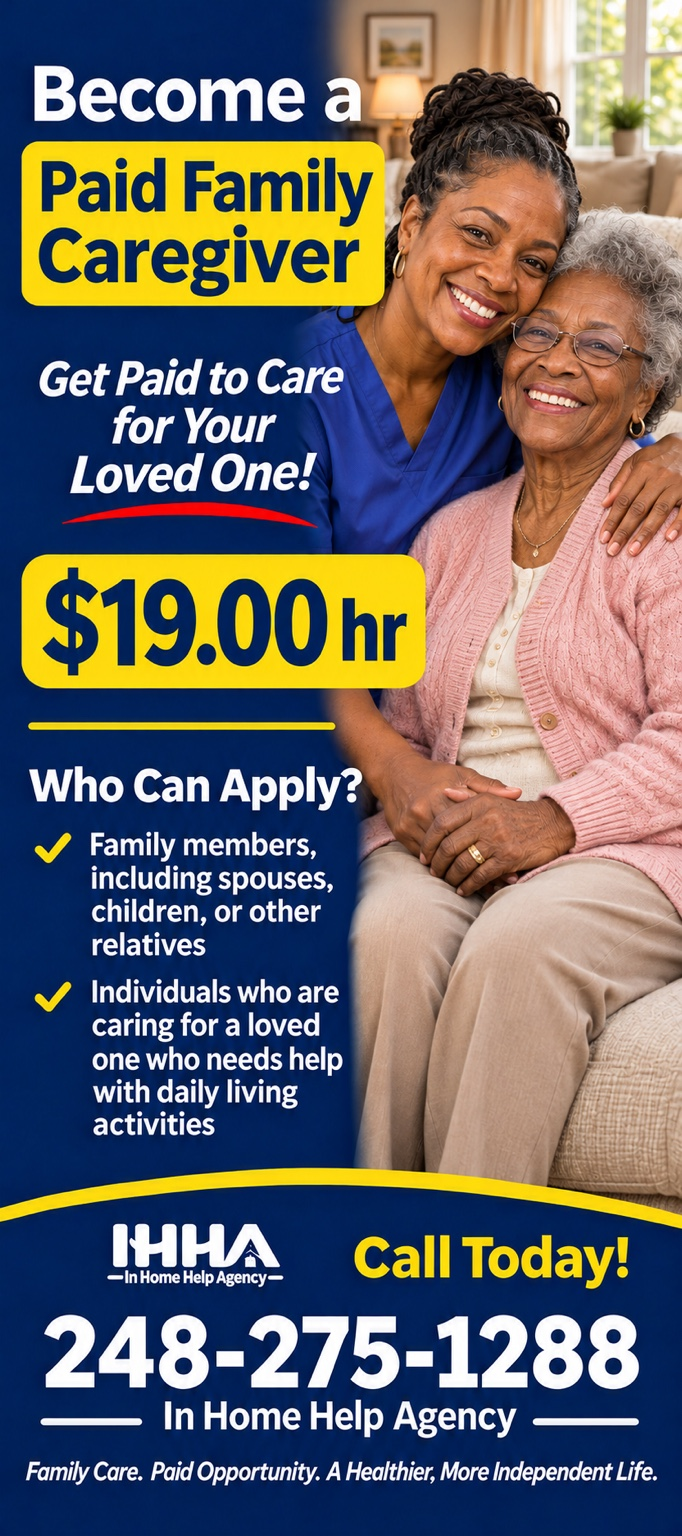
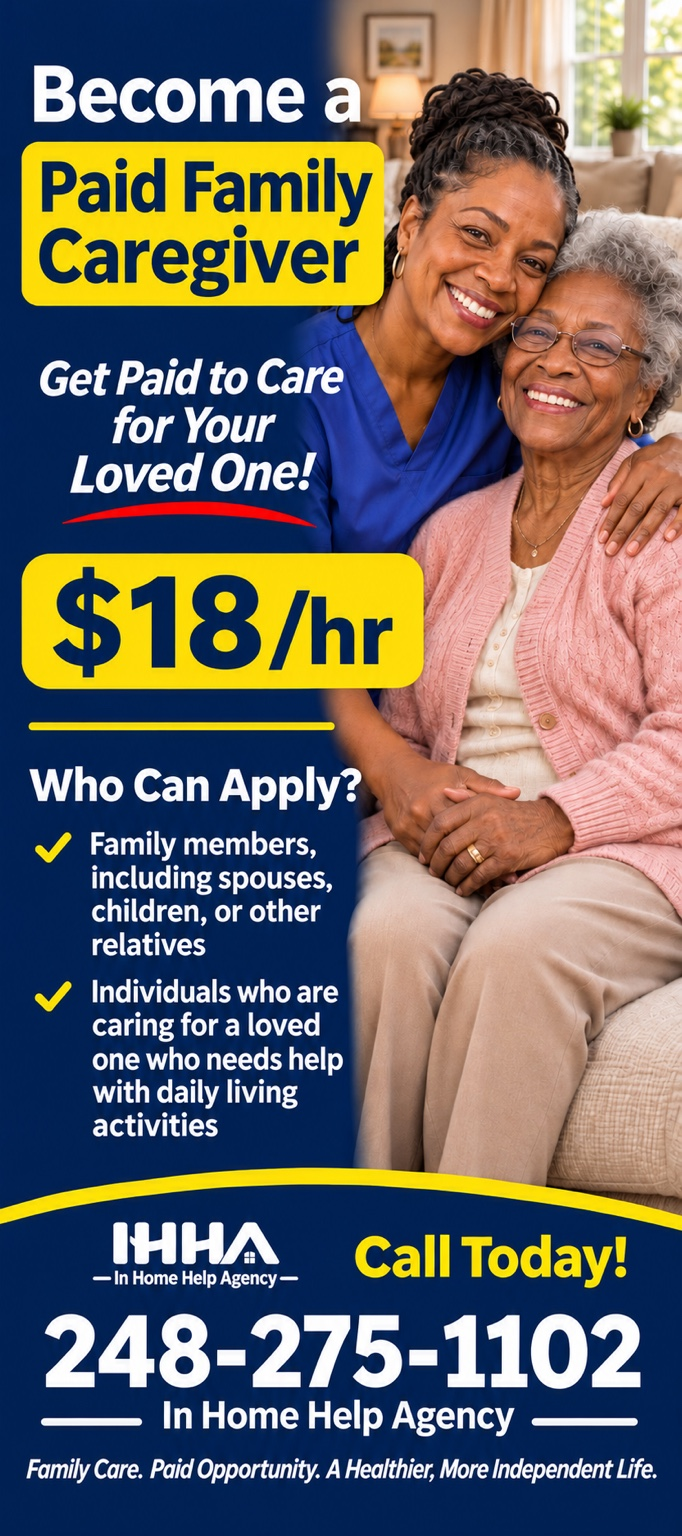
Add files via upload

diff --git a/index.html b/index.html
@@ -16,9 +16,7 @@
     <a class="brand" href="#top" aria-label="In Home Help Agency home"><img src="assets/ihha-logo-white.png" alt="IHHA In Home Help Agency"></a>
     <div class="header-title" id="header-title">Become a Paid Family Caregiver</div>
     <nav class="header-nav" id="section-nav" aria-label="Agency navigation" hidden>
-      <a href="#top">Apply for Home Help Services</a>
       <a class="current" href="#top" aria-current="page">Become a Paid Family Caregiver</a>
-      <a href="tel:2482751102">Contact Us</a>
     </nav>
     <a class="header-phone" href="tel:2482751102">248 275 1102</a>
   </header>
@@ -35,9 +33,9 @@
       <div class="intro" id="intro">
         <h1>Become a Paid Family Caregiver</h1>
         <p class="rate">$18 and up per hour</p>
-        <p><strong>INSTRUCTIONS:</strong> Please fill out all the information in Section 1 and Section 2. The caregiver must sign and date to be considered complete.</p>
-        <p>Already caring for a loved one? You may qualify for opportunities to become a paid family caregiver.</p>
-        <p>As part of Home Help Services Program, In Home Help Agency is required to conduct applicable background checks before caregivers are eligible to begin working for a client. Successfully passing these background checks is a condition of employment with the client.</p>
+        <p class="intro-copy"><strong>INSTRUCTIONS:</strong> Please fill out all the information in Section 1 and Section 2. The caregiver must sign and date to be considered complete.</p>
+        <p class="intro-copy">Already caring for a loved one? You may qualify for opportunities to become a paid family caregiver.</p>
+        <p class="intro-copy">As part of Home Help Services Program, In Home Help Agency is required to conduct applicable background checks before caregivers are eligible to begin working for a client. Successfully passing these background checks is a condition of employment with the client.</p>
       </div>
 
       <div class="progress-wrap" aria-label="Application progress">
@@ -117,8 +115,7 @@
           <div class="subsection">
             <h3>ADDITIONAL INFORMATION</h3>
             <div class="field-grid two-col">
-              <fieldset><legend>Do you need Medicaid? <span>*</span></legend><label class="inline-choice"><input type="radio" name="needsMedicaid" value="Yes" required> Yes</label><label class="inline-choice"><input type="radio" name="needsMedicaid" value="No"> No</label></fieldset>
-              <fieldset><legend>Do you have a Primary Care Doctor? <span>*</span></legend><label class="inline-choice"><input type="radio" name="hasPrimaryDoctor" value="Yes" required> Yes</label><label class="inline-choice"><input type="radio" name="hasPrimaryDoctor" value="No"> No</label></fieldset>
+              <fieldset class="full"><legend>Do you have a Primary Care Doctor?</legend><label class="inline-choice"><input type="radio" name="hasPrimaryDoctor" value="Yes"> Yes</label><label class="inline-choice"><input type="radio" name="hasPrimaryDoctor" value="No"> No</label></fieldset>
               <label class="doctor-field full" hidden>Doctor Name<input name="doctorName"></label>
               <label class="doctor-field" hidden>Doctor Phone or Fax #<input name="doctorPhoneFax" type="tel"></label>
               <label class="full">Case Manager or Caseworker Name<input name="caseManagerName"></label>
@@ -127,7 +124,7 @@
             </div>
           </div>
           <div class="authorization final-authorization">
-            <label class="check-row"><input type="checkbox" name="homeHelpDeclaration" required><span>I wish to apply for home help services - adult services programs. I certify that the information I have given is correct. I acknowledge that I have read and agree to the application. <b>*</b></span></label>
+            <label class="check-row"><input type="checkbox" name="homeHelpDeclaration" required><span>I certify that the information I have given is correct. I acknowledge that I have read and agree to the application. <b>*</b></span></label>
           </div>
           <div class="form-actions"><button class="button secondary" type="button" data-prev>Previous</button><button class="button primary" type="submit" id="submit-button">Submit Application</button></div>
         </section>

diff --git a/styles.css b/styles.css
@@ -45,3 +45,19 @@
 @media(max-width:900px){.header-nav{gap:13px}.header-nav a{font-size:12px}}
 @media(max-width:700px){.site-header{flex-wrap:wrap}.header-nav{order:3;flex:1 0 100%;justify-content:flex-start;overflow-x:auto;padding:8px 0 2px;gap:20px}.header-nav a{font-size:12px}.header-title[hidden]{display:none!important}}
 @media(max-width:520px){.site-header{display:flex;flex-wrap:wrap;justify-content:space-between}.brand{order:0}.header-phone{order:1}.header-title{order:2;flex:1 0 100%;padding-top:6px}.header-nav{order:3;flex:1 0 100%;border-top:1px solid rgba(255,255,255,.17);padding-top:9px}.header-nav a{font-size:11px}}
+
+/* Visual refinement requested: stronger agency identity and clearer hierarchy. */
+.site-header{min-height:98px;padding-top:14px;padding-bottom:14px;gap:28px}
+.brand{width:190px;flex:0 0 190px}
+.brand img{height:72px}
+.header-title{font-size:19px}
+.header-nav a{font-size:15px}
+.intro{padding:34px 38px 30px}
+.intro h1{font-size:clamp(30px,3.5vw,42px);line-height:1.12;letter-spacing:-1.35px;margin-bottom:13px}
+.intro .rate{position:relative;display:inline-flex;align-items:center;gap:9px;background:linear-gradient(135deg,#ffdf35,#ffc928);color:#09285f;border:0;border-radius:999px;padding:11px 19px;margin:0 0 17px;font:800 17px 'Manrope',sans-serif;box-shadow:0 7px 18px rgba(197,145,0,.24);letter-spacing:.1px}
+.intro .rate{background:#d62828!important;color:#fff!important;border:0!important;opacity:1!important;box-shadow:0 8px 20px rgba(160,20,20,.28)!important}
+.intro .rate:before{content:none!important;display:none!important}
+.page-footer{margin-top:28px;padding:22px 24px;background:#f1f5fb;border:1px solid #dce5f1;border-radius:13px;color:#526176;font-size:14px;line-height:1.65;font-weight:500}
+@media(max-width:900px){.site-header{min-height:90px}.brand{width:170px;flex-basis:170px}.brand img{height:66px}.header-title{font-size:17px}}
+@media(max-width:700px){.site-header{min-height:0;gap:12px}.brand{width:150px;flex-basis:150px}.brand img{height:59px}.header-title{font-size:15px}.header-nav a{font-size:13px}.intro{padding:24px 20px}.intro h1{font-size:29px}.intro .rate{font-size:15px;padding:9px 15px}.page-footer{font-size:13px;padding:18px 16px}}
+@media(max-width:520px){.brand{width:137px;flex-basis:137px}.brand img{height:54px}.header-title{font-size:14px}.intro{padding:21px 17px}.intro h1{font-size:26px;line-height:1.15}.intro .rate{font-size:14px;padding:8px 14px}.page-footer{margin-top:18px;padding:17px 14px;font-size:13px}}

diff --git a/app.js b/app.js
@@ -33,6 +33,10 @@ function updateStep() {
   const headerTitle = document.querySelector("#header-title");
   sectionNav.hidden = currentStep === 0;
   headerTitle.hidden = currentStep !== 0;
+  document.querySelectorAll(".intro-copy").forEach(paragraph => { paragraph.hidden = currentStep !== 0; });
+  // Keep the main promotional heading and hourly-rate badge on Section 1 only.
+  document.querySelector("#intro h1").hidden = currentStep !== 0;
+  document.querySelector("#intro .rate").hidden = currentStep !== 0;
   progressFill.style.width = `${percent}%`;
   stepLabel.textContent = `Section ${currentStep + 1} of ${steps.length} · ${stepNames[currentStep]}`;
   progressTrack.setAttribute("aria-valuenow", String(percent));
@@ -73,7 +77,7 @@ form.querySelectorAll('input[name="hasPrimaryDoctor"]').forEach(radio => radio.a
   document.querySelectorAll(".doctor-field").forEach(field => {
     field.hidden = !show;
     const input = field.querySelector("input");
-    input.required = show;
+    input.required = false;
     if (!show) input.value = "";
   });
 }));
@@ -100,7 +104,7 @@ form.addEventListener("submit", async event => {
   event.preventDefault();
   if (!validateStep(currentStep)) return;
   if (!API_URL) {
-    showError("The form is ready for integration, but the agency API endpoint has not been configured yet. Please provide the API URL and documentation before accepting real applications.");
+    showError("Online application submission is not available right now. Your application has not been sent. Please contact our office at 248 275 1102 for assistance.");
     return;
   }
   if (!API_URL.startsWith("https://")) {
